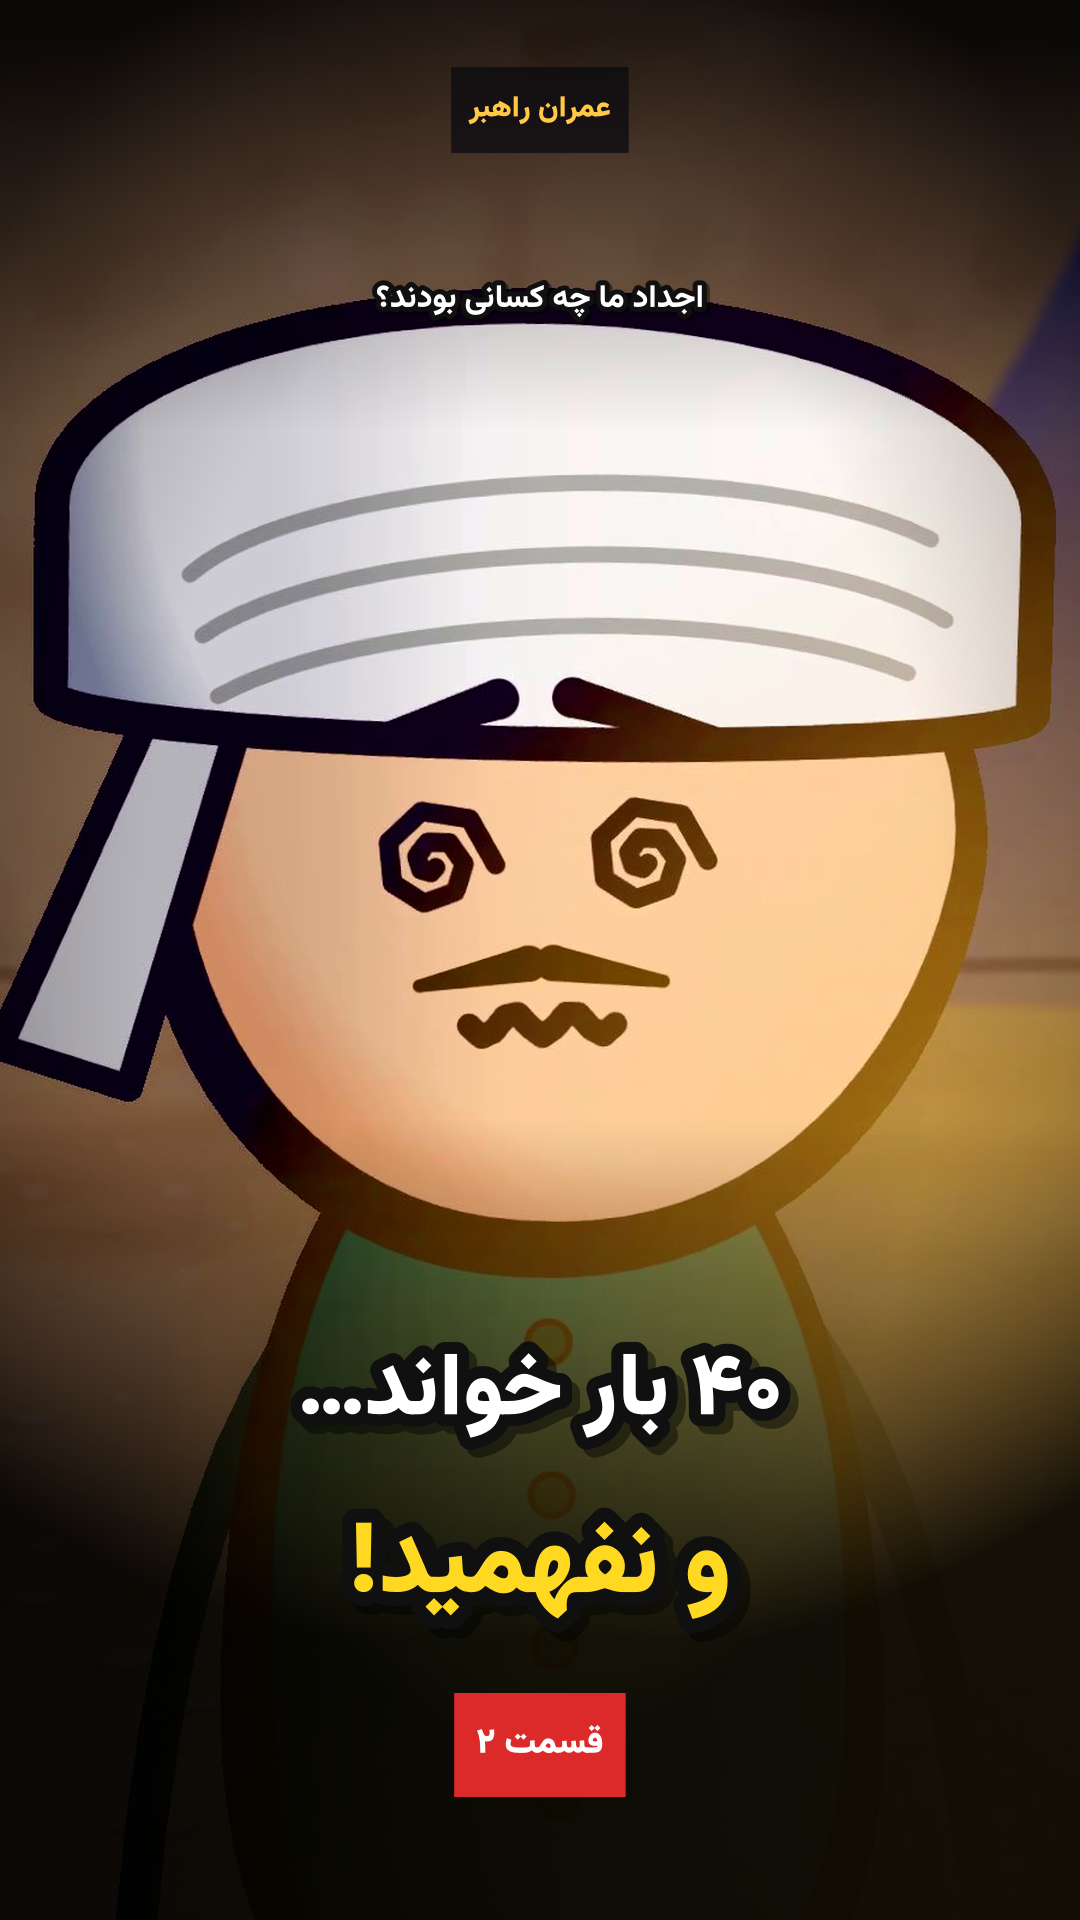
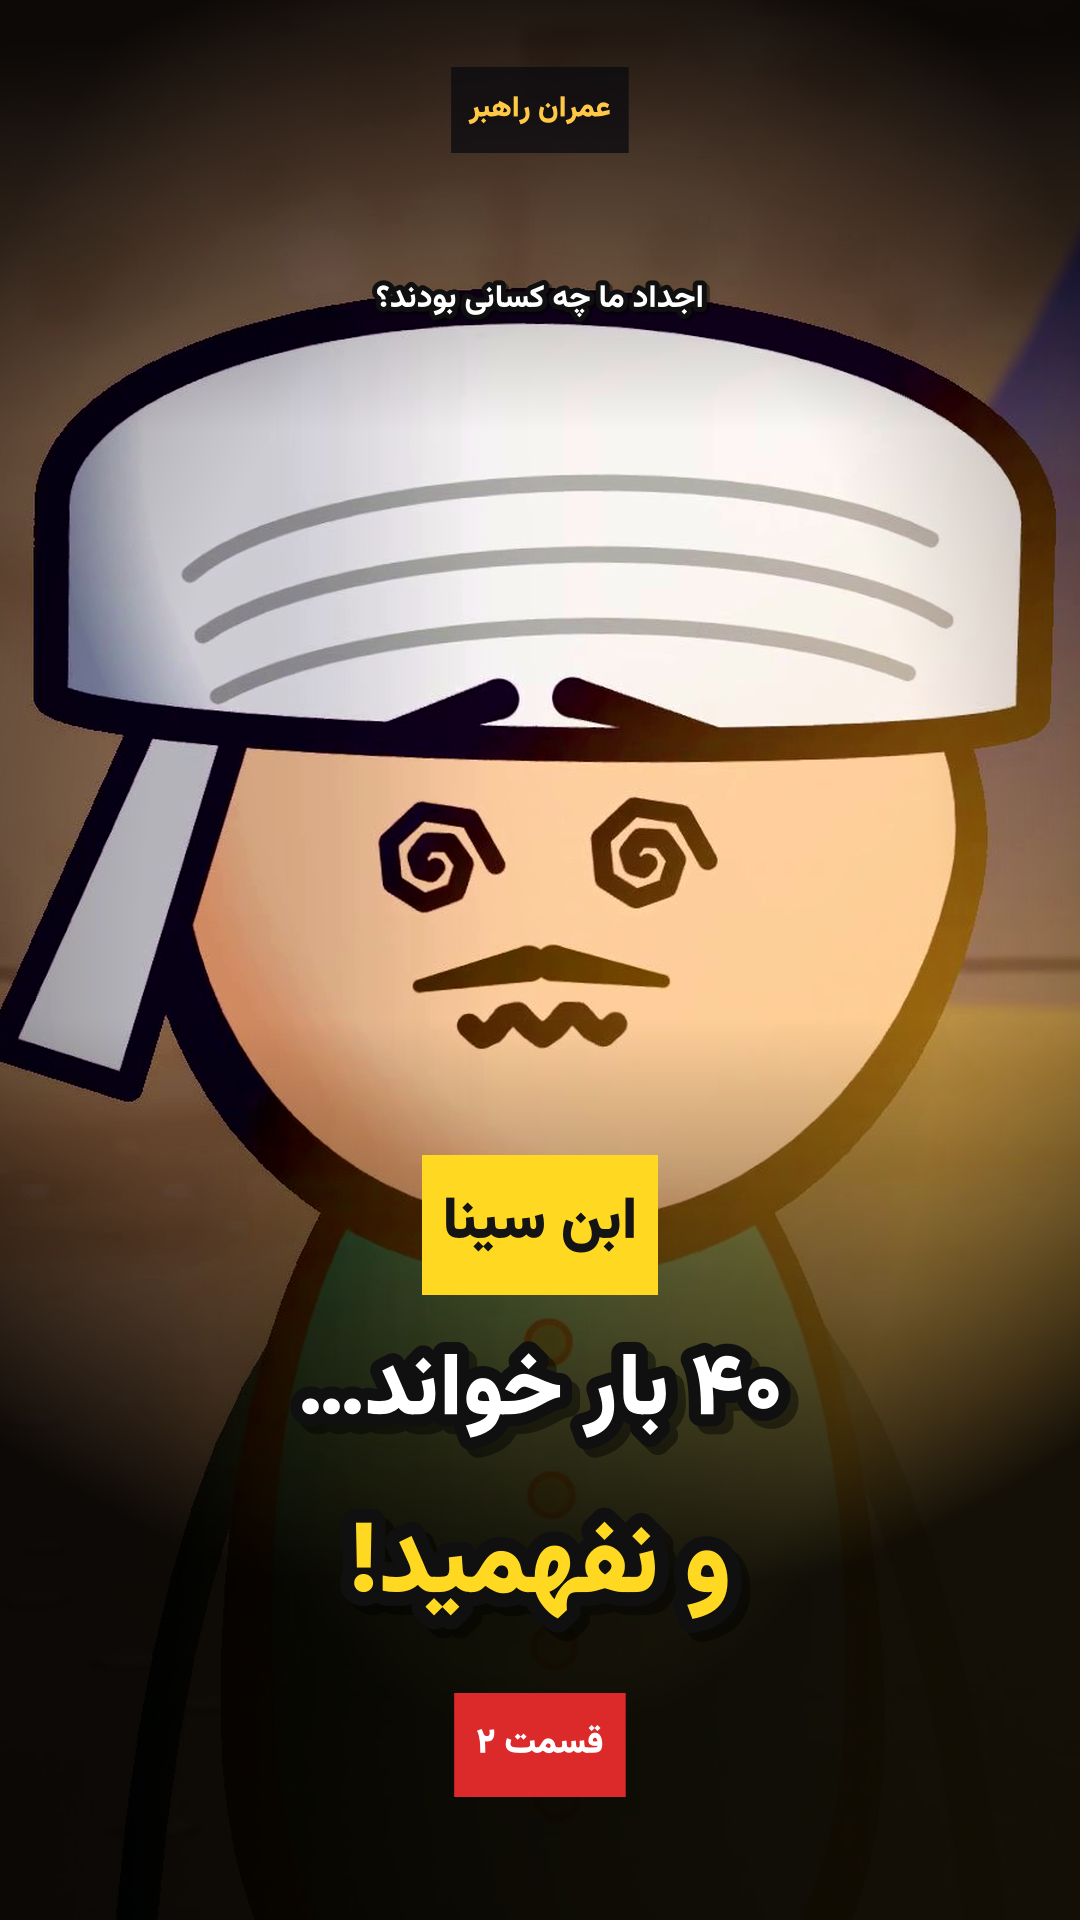
Ajdad ep2-4 thumbnails: hero name tag, hero close-ups
Claude-Session: https://claude.ai/code/session_01TJhCrpJbAJ9p83HwGkzc72

Changed region(s): [[0.2444, 0.5625, 1.0, 0.75]]

diff --git a/animated-shorts/scripts/ajdad_thumb.py b/animated-shorts/scripts/ajdad_thumb.py
@@ -1,9 +1,10 @@
-# usage: make_thumb.py frame.png out.png ep "line1" "line2" [zoom] [cy]
+# usage: ajdad_thumb.py frame.png out.png ep "line1" "line2" zoom cy "hero name"
 import sys, subprocess, numpy as np
 from PIL import Image, ImageEnhance
 src, out, ep, l1, l2 = sys.argv[1:6]
 zoom = float(sys.argv[6]) if len(sys.argv) > 6 else 1.0
 cy = float(sys.argv[7]) if len(sys.argv) > 7 else 0.5
+hero = sys.argv[8] if len(sys.argv) > 8 else ""
 im = Image.open(src).convert("RGB")
 W, H = im.size
 cw, ch = W / zoom, H / zoom
@@ -12,7 +13,7 @@ im = im.crop((int(x0), int(y0), int(x0 + cw), int(y0 + ch))).resize((1080, 1920)
 im = ImageEnhance.Color(im).enhance(1.25); im = ImageEnhance.Contrast(im).enhance(1.08)
 a = np.asarray(im).astype(np.float32)
 y = np.linspace(0, 1, 1920)[:, None]
-dark = np.clip((y * 1920 - 1120) / 520, 0, 1) * 0.86 + np.clip((430 - y * 1920) / 430, 0, 1) * 0.6
+dark = np.clip((y * 1920 - 1020) / 560, 0, 1) * 0.86 + np.clip((430 - y * 1920) / 430, 0, 1) * 0.6
 xs = np.linspace(-1, 1, 1080)[None, :]; ys = np.linspace(-1, 1, 1920)[:, None]
 vig = np.clip((xs**2 + ys**2 - 0.55) * 0.35, 0, 0.35)
 a *= (1 - np.clip(dark + vig, 0, 0.9))[..., None]
@@ -30,6 +31,7 @@ Style: Name,Vazirmatn Black,50,&H0045C8FF,&H0045C8FF,&H40100A0A,&H00000000,0,0,0
 Style: Ser,Vazirmatn ExtraBold,54,&H00FFFFFF,&H00FFFFFF,&H00101010,&H90000000,0,0,0,0,100,100,0,0,1,5,3,5,0,0,0,-1
 Style: H1,Vazirmatn Black,150,&H00FFFFFF,&H00FFFFFF,&H00101010,&H90000000,0,0,0,0,100,100,0,0,1,12,8,5,0,0,0,-1
 Style: H2,Vazirmatn Black,172,&H0022D8FF,&H0022D8FF,&H00101010,&H90000000,0,0,0,0,100,100,0,0,1,14,9,5,0,0,0,-1
+Style: Hero,Vazirmatn Black,100,&H00141414,&H00141414,&H0022D8FF,&H00000000,0,0,0,0,100,100,0,0,3,20,0,5,0,0,0,-1
 Style: Btn,Vazirmatn Black,60,&H00FFFFFF,&H00FFFFFF,&H002A2ADC,&H00000000,0,0,0,0,100,100,0,0,3,22,0,5,0,0,0,-1
 
 [Events]
@@ -38,6 +40,7 @@ Dialogue: 0,0:00:00.00,0:00:05.00,Name,,0,0,0,,{{\\pos(540,110)}}عمران را
 Dialogue: 0,0:00:00.00,0:00:05.00,Ser,,0,0,0,,{{\\pos(540,300)}}{rlm}اجداد ما چه کسانی بودند؟{rlm}
 Dialogue: 0,0:00:00.00,0:00:05.00,H1,,0,0,0,,{{\\pos(540,1395)}}{rlm}{l1}{rlm}
 Dialogue: 0,0:00:00.00,0:00:05.00,H2,,0,0,0,,{{\\pos(540,1570)}}{rlm}{l2}{rlm}
+Dialogue: 0,0:00:00.00,0:00:05.00,Hero,,0,0,0,,{{\\pos(540,1225)}}{rlm}{hero}{rlm}
 Dialogue: 0,0:00:00.00,0:00:05.00,Btn,,0,0,0,,{{\\pos(540,1745)}}قسمت {epf}
 """
 open("t.ass", "w").write(ass)
